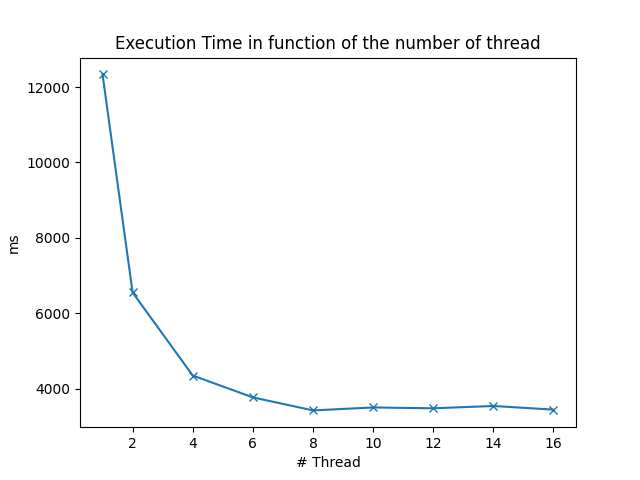
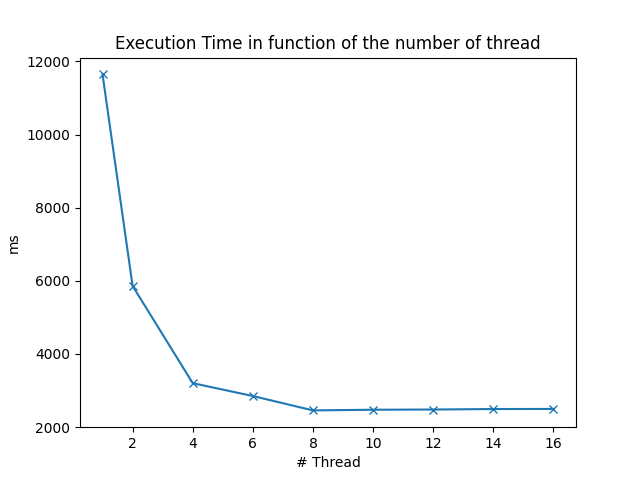
feat: report with graphs

diff --git a/50221600_proj3/prob1/report.md b/50221600_proj3/prob1/report.md
@@ -31,22 +31,88 @@ gcc -o a.out ./prob1.c ./prime_counter.c  -fopenmp
 
 ### Tables
 
+|Number of thread|Execution time|Performance           |
+|----------------|--------------|----------------------|
+|1               |10856         |9.211495946941784e-05 |
+|2               |7315          |0.0001367053998632946 |
+|4               |4796          |0.0002085070892410342 |
+|6               |4105          |0.000243605359317905  |
+|8               |3294          |0.00030358227079538557|
+|10              |2761          |0.0003621876131836291 |
+|12              |2865          |0.00034904013961605586|
+|14              |2712          |0.0003687315634218289 |
+|16              |2716          |0.0003681885125184094 |
+
 ### Graphs
+
+![static_exec_time.png](benchmark/results/static_exec_time.png)
+
+![static_performance.png](benchmark/results/static_performance.png)
 
 ## Static with 10 chunks
 
 ### Tables
 
+|Number of thread|Execution time|Performance           |
+|----------------|--------------|----------------------|
+|1               |10447         |9.572125969177755e-05 |
+|2               |6123          |0.00016331863465621427|
+|4               |3199          |0.00031259768677711783|
+|6               |3494          |0.00028620492272467084|
+|8               |2502          |0.0003996802557953637 |
+|10              |2574          |0.0003885003885003885 |
+|12              |2682          |0.0003728560775540641 |
+|14              |2554          |0.00039154267815191856|
+|16              |2487          |0.0004020908725371934 |
+
+
 ### Graphs
+
+![static_chunk_exec_time.png](benchmark/results/static_chunk_exec_time.png)
+
+![static_chunk_performance.png](benchmark/results/static_chunk_performance.png)
 
 ## Dynamic
 
 ### Tables
 
+|Number of thread|Execution time|Performance           |
+|----------------|--------------|----------------------|
+|1               |10128         |9.873617693522907e-05 |
+|2               |6008          |0.00016644474034620507|
+|4               |3270          |0.0003058103975535168 |
+|6               |2837          |0.00035248501938667606|
+|8               |2478          |0.0004035512510088781 |
+|10              |2481          |0.00040306328093510683|
+|12              |2491          |0.0004014452027298274 |
+|14              |2498          |0.00040032025620496394|
+|16              |2493          |0.00040112314480545525|
+
 ### Graphs
+
+
+![dynamic_exec_time.png](benchmark/results/dynamic_exec_time.png)
+
+![dynamic_performance.png](benchmark/results/dynamic_performance.png)
 
 ## Dynamic with 10 chunks
 
 ### Tables
 
+|Number of thread|Execution time|Performance           |
+|----------------|--------------|----------------------|
+|1               |11645         |8.587376556462001e-05 |
+|2               |5859          |0.00017067759003242875|
+|4               |3200          |0.0003125             |
+|6               |2848          |0.00035112359550561797|
+|8               |2455          |0.0004073319755600815 |
+|10              |2473          |0.0004043671653861706 |
+|12              |2479          |0.0004033884630899556 |
+|14              |2492          |0.0004012841091492777 |
+|16              |2495          |0.0004008016032064128 |
+
 ### Graphs
+
+![dynamic_chunk_exec_time.png](benchmark/results/dynamic_chunk_exec_time.png)
+
+![dynamic_chunk_performance.png](benchmark/results/dynamic_chunk_performance.png)
